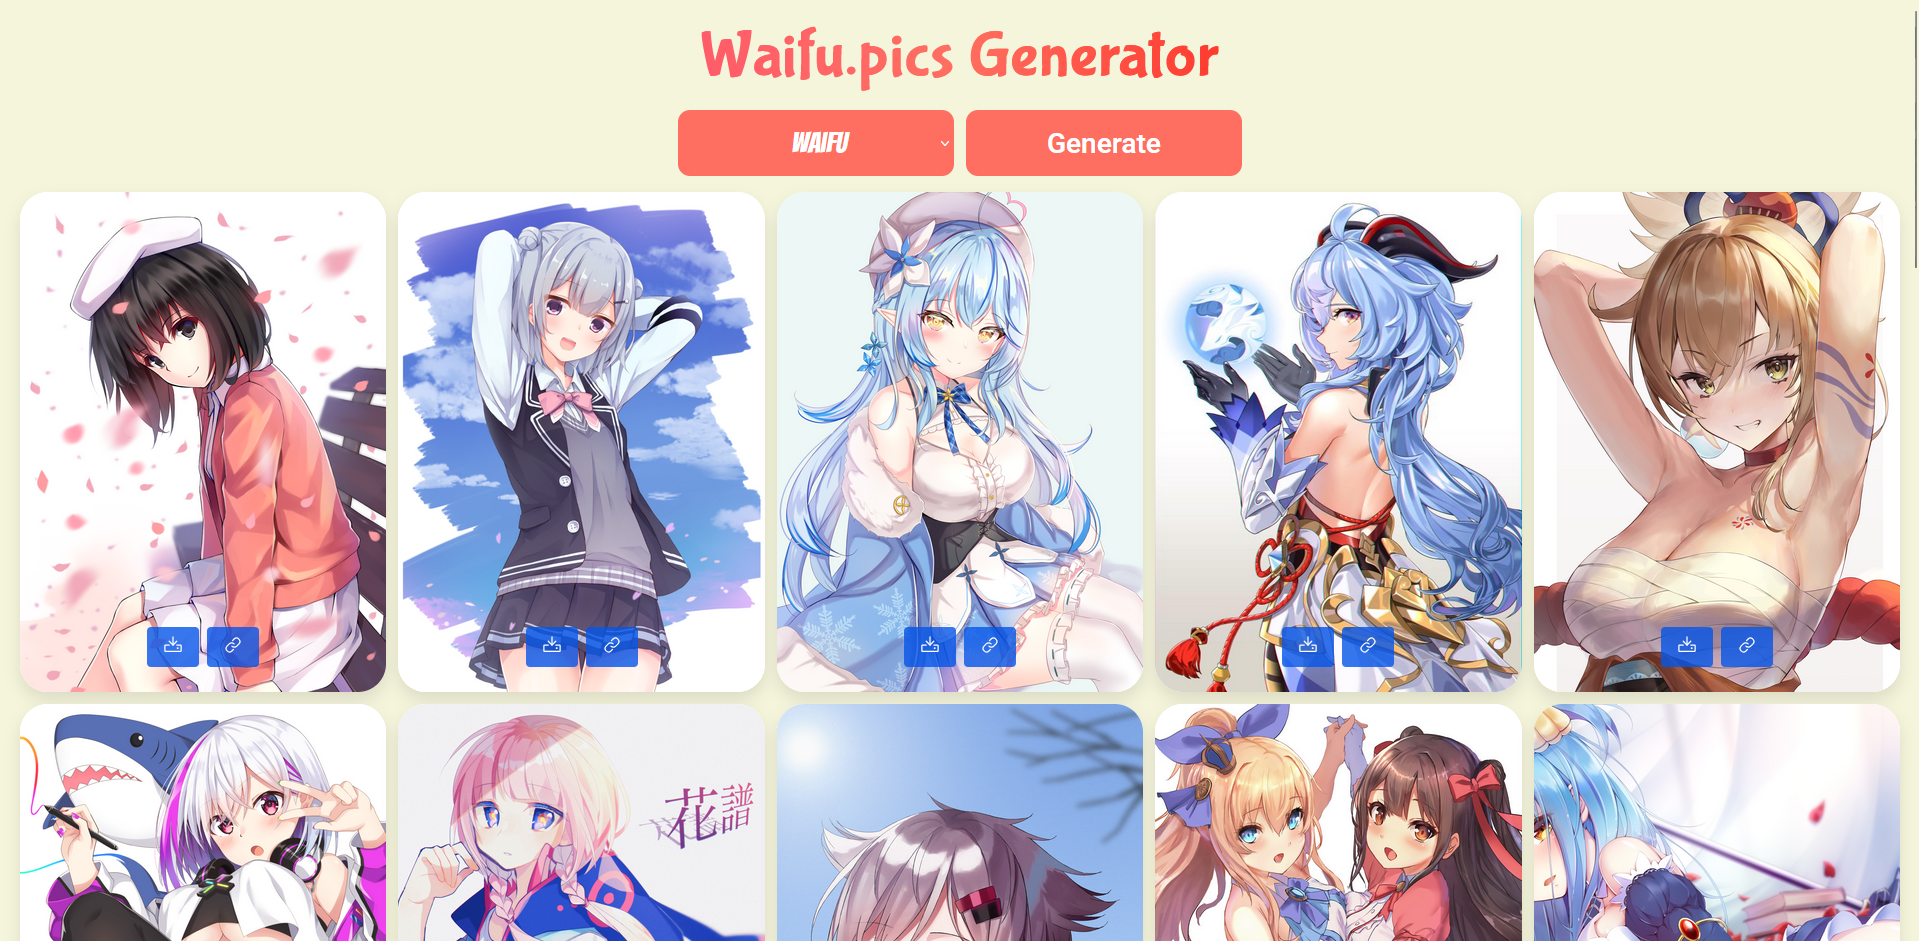
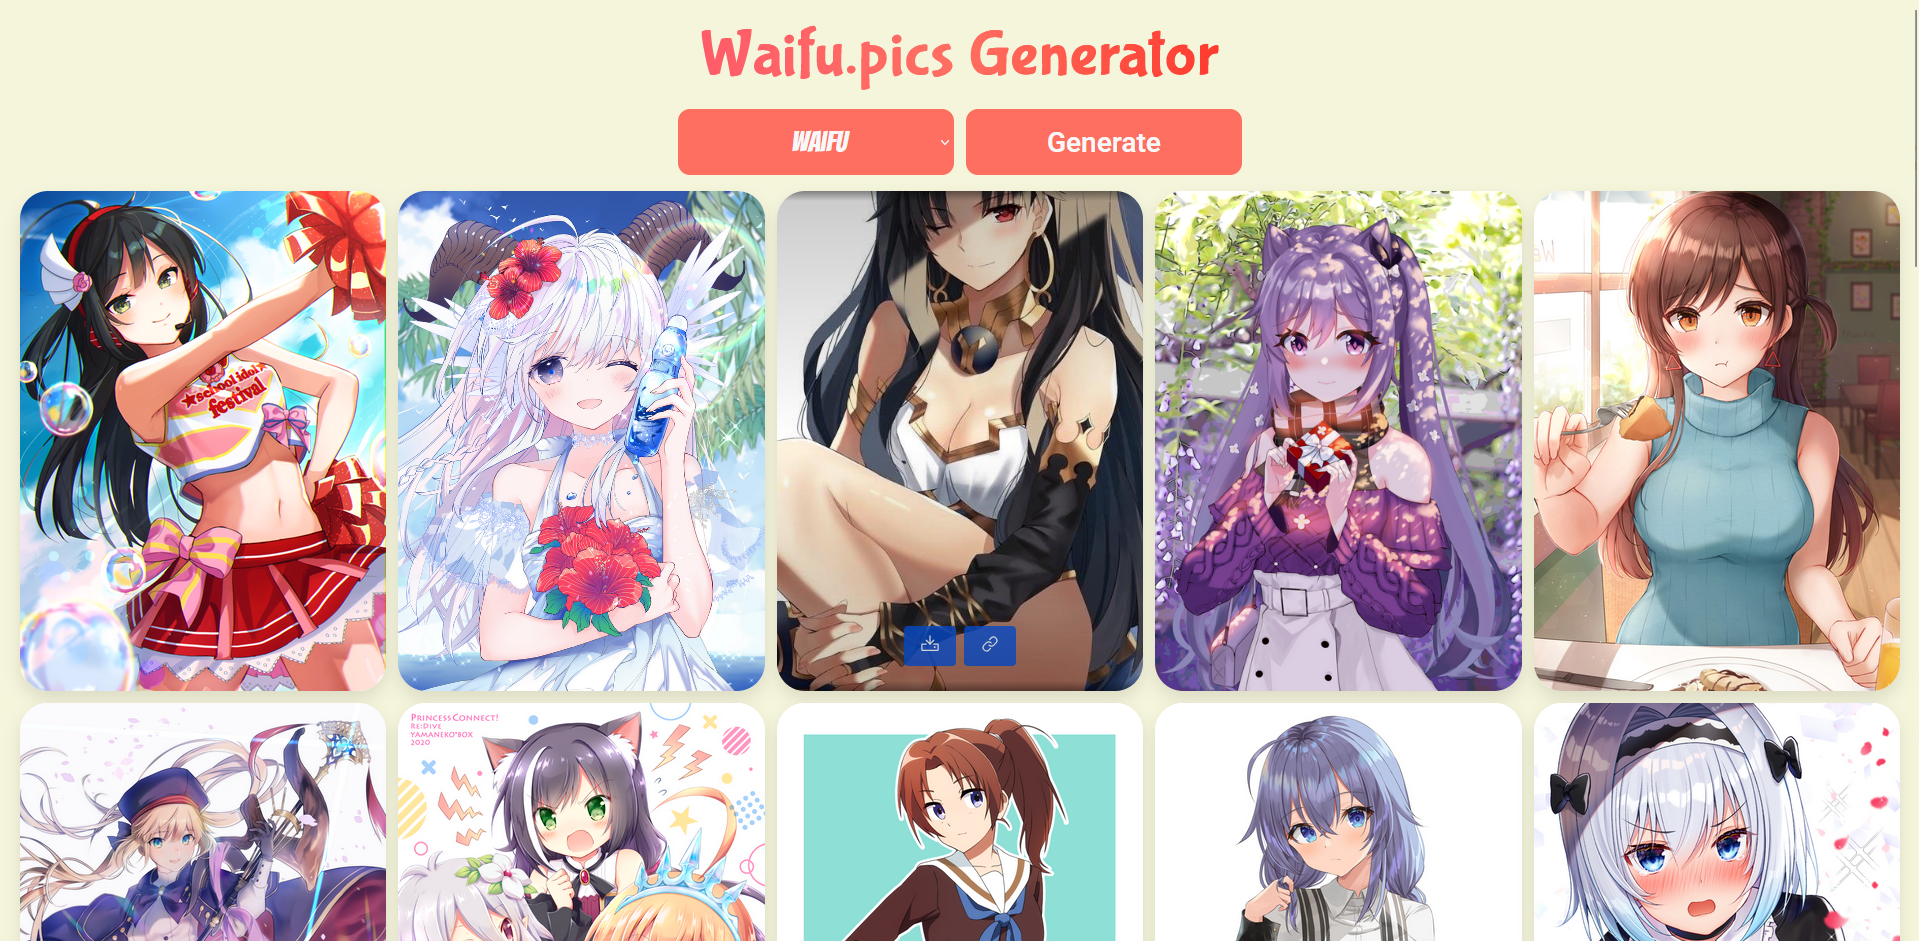
Update app in desktop size
- Download and Link button on hover a Card
- Updated README.md
- Updated preview image
- Updated waifu.pics image and link
- Updated emojis

diff --git a/vite-frontend-js/src/components/Card.module.css b/vite-frontend-js/src/components/Card.module.css
@@ -106,6 +106,15 @@
         rgba(0, 0, 0, 0.5) 100%);
   }
 
+  .cardButtonContainer {
+    opacity: 0;
+    transition: opacity 0.3s ease;
+  }
+
+  .cardContainer:hover>.cardButtonContainer {
+    opacity: 1;
+  }
+
   .cardButtonBase {
     transition: background-color 0.3s ease;
 

diff --git a/README.md b/README.md
@@ -15,7 +15,7 @@ Wait for the content to load. Each card have a `download` and a `link` button.
 
 On a local machine, follow the steps below:
 
-### Prerequisites
+### Prerequisites 📝
 
 Make sure you have Node.js and npm (or yarn) installed on your machine. You can check the versions with the commands `node -v` and `npm -v` (or `yarn -v`).
 
@@ -47,11 +47,11 @@ I have 2 frontends, `react-frontend-js` and `vite-frontedn-js`.
 The Vite frontend will be published with github pages.
 
 
-### Preview 
+### Preview 📺
 
 <https://tufcoder.github.io/playground-waifu-app>
 
-### Using `vite-frontend-js`
+### Using `vite-frontend-js` ⚡
 
 1.  Navigate to the `vite-frontend-js` folder:
 
@@ -73,7 +73,7 @@ The Vite frontend will be published with github pages.
 
     The frontend will be available at `http://localhost:5173`.
 
-### Using `react-frontend-js`
+### Using `react-frontend-js` ⚛
 
 1.  Navigate to the `react-frontend-js` folder:
 
@@ -112,9 +112,10 @@ The Vite frontend will be published with github pages.
     *   [Axios](https://www.npmjs.com/package/axios)
     *   [Cors](https://www.npmjs.com/package/cors)
     *   [Nodemon (dev)](https://www.npmjs.com/package/nodemon)
-*   **API:** [waifu.pics](https://waifu.pics/docs)
-
-    ![](https://raw.githubusercontent.com/Waifu-pics/waifu-api/master/.github/assets/banner.png)
+*   **API:** *waifu.pics*
+    <a href="https://waifu.pics/docs" target="_blank" rel="noreferrer noopener">
+        <img src="https://raw.githubusercontent.com/Waifu-pics/waifu-api/master/.github/assets/banner.png" alt="Waifu.pics docs">
+    </a>
 
 ## Features 🪶
 
